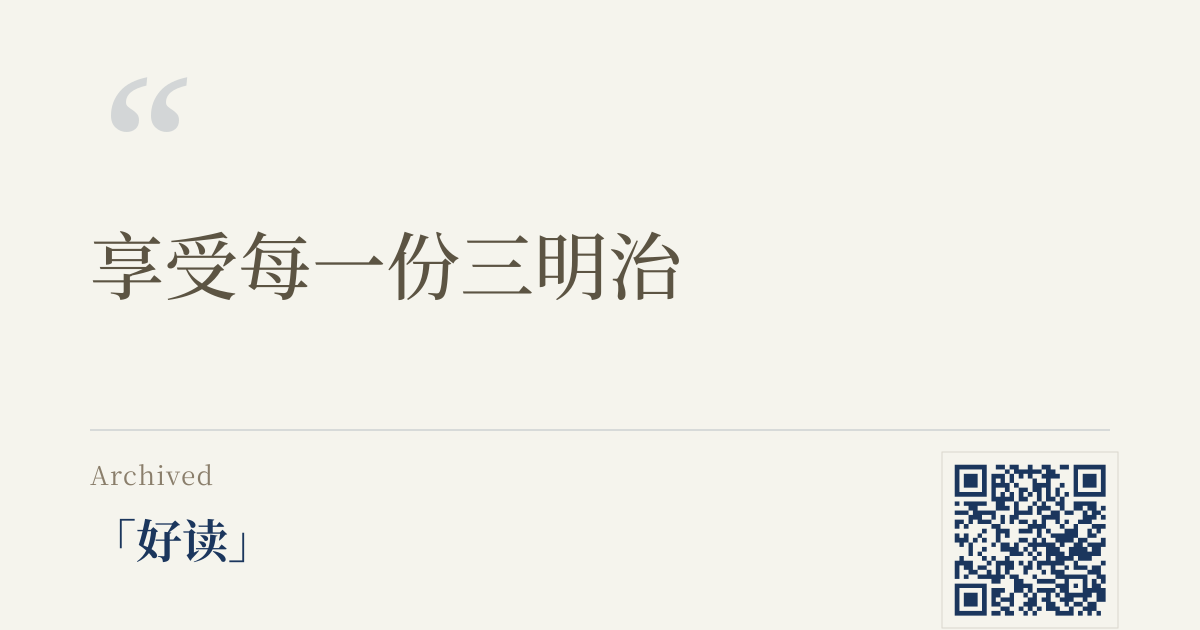
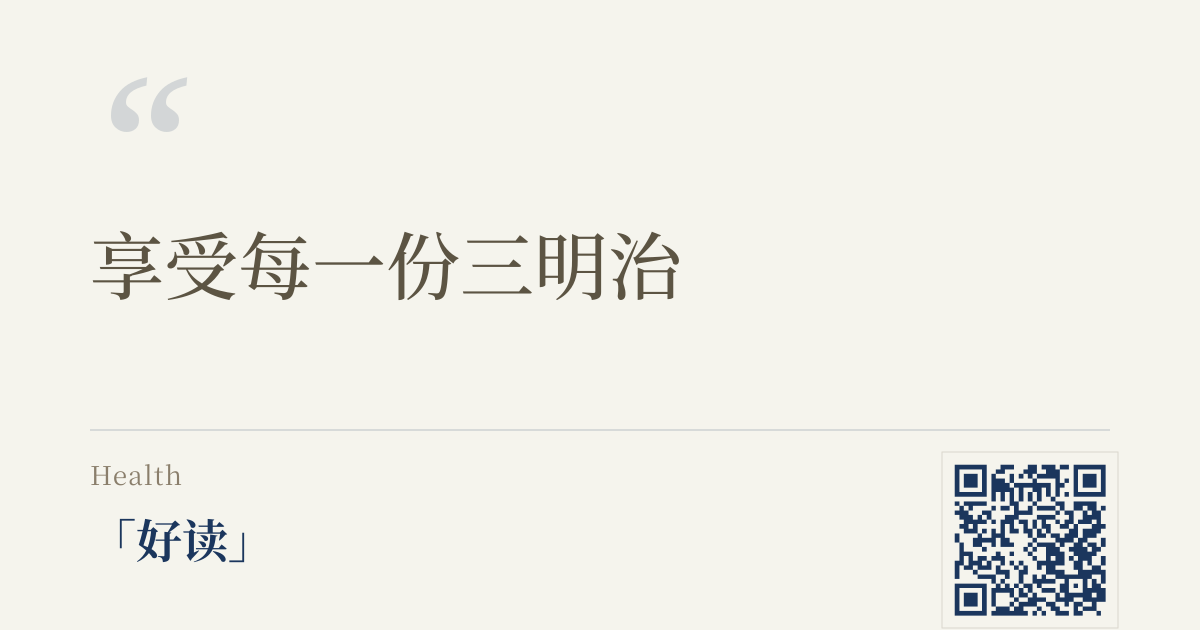
修正《享受每一份三明治》的公开分类

Changed region(s): [[0.7708, 0.7238, 0.925, 0.9952], [0.0617, 0.7238, 0.185, 0.7841]]

diff --git a/src/content/Health/enjoy-every-sandwich.md b/src/content/Health/enjoy-every-sandwich.md
@@ -3,9 +3,9 @@ title: '享受每一份三明治'
 description: '这个引人入胜的副标题，真让你很想读下去，对吧？！'
 pubDate: '2026-09-22'
 heroImage: 'https://substackcdn.com/image/fetch/$s_!VZY4!,f_auto,q_auto:good,fl_progressive:steep/https%3A%2F%2Fsubstack-post-media.s3.amazonaws.com%2Fpublic%2Fimages%2F6227760a-3238-42dd-ae04-a84728f14980_3300x2550.png'
-category: 'Archived'
-archived: true
-route_category: 'archived'
+category: 'Health'
+archived: false
+route_category: 'health'
 route_slug: 'enjoy-every-sandwich'
 source: 'Substack'
 origin_author: 'Brad Montague'
